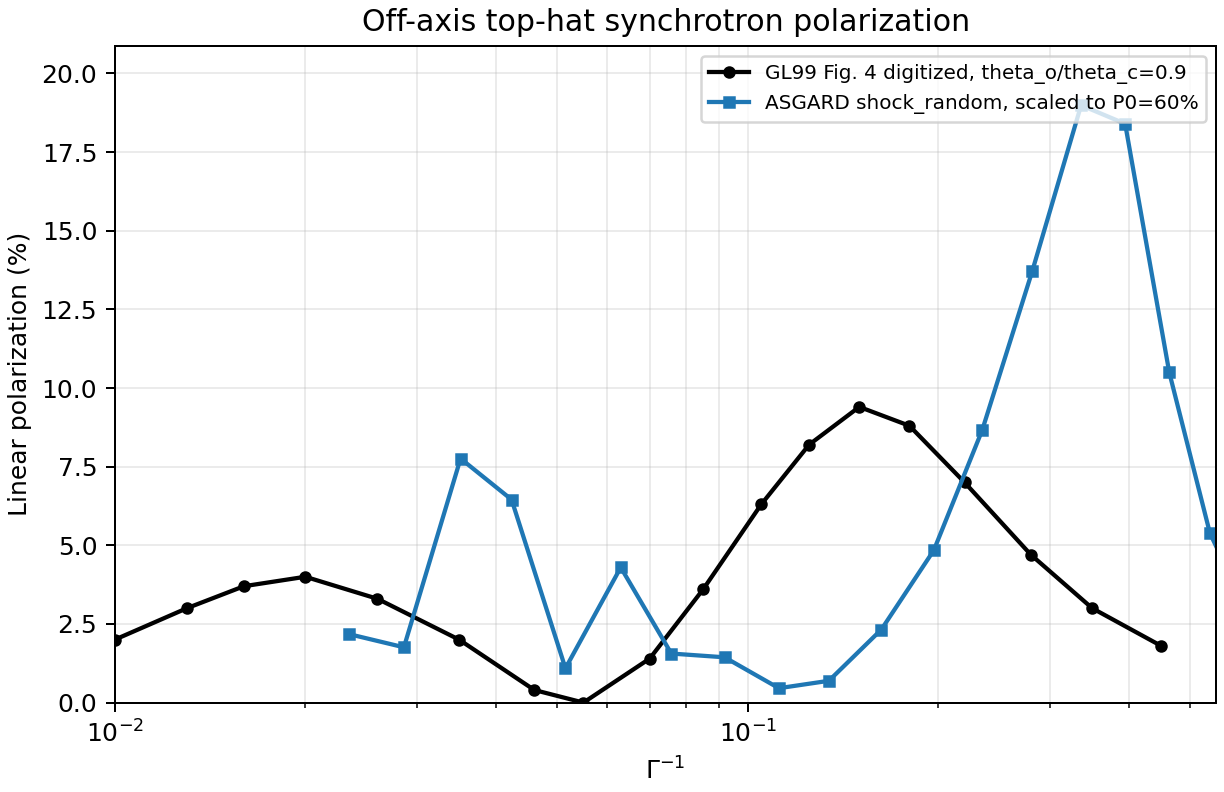
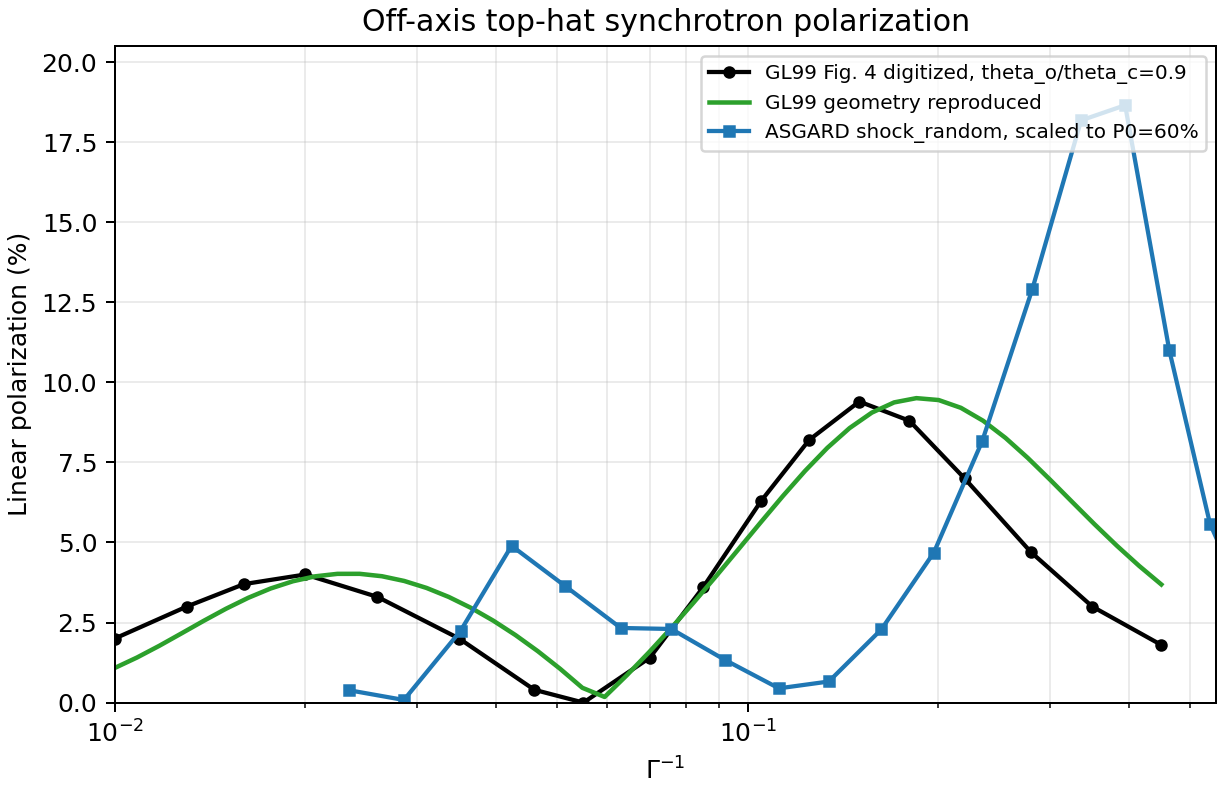
test: reproduce GL99 polarization geometry

diff --git a/tests/polarization_literature_overlay.py b/tests/polarization_literature_overlay.py
@@ -61,6 +61,7 @@ def _build_asgard_model() -> Model:
             num_gam_e=32,
             num_nu=40,
             num_r=40,
+            num_phi=48,
             num_tobs=40,
             patch_theta=8,
             patch_phi=48,
@@ -80,10 +81,74 @@ def _asgard_polarization_curve() -> tuple[np.ndarray, np.ndarray]:
     return 1.0 / gamma, scaled_percent
 
 
-def _write_overlay_csv(gl_x: np.ndarray, gl_p: np.ndarray, asgard_x: np.ndarray, asgard_p: np.ndarray) -> None:
+def _unit_direction(theta: float, phi: float) -> np.ndarray:
+    """球坐标方向向量，供 GL99 几何积分使用。"""
+    return np.array([np.sin(theta) * np.cos(phi), np.sin(theta) * np.sin(phi), np.cos(theta)], dtype=float)
+
+
+def _gl99_sky_basis(theta_obs: float) -> tuple[np.ndarray, np.ndarray, np.ndarray]:
+    """构造视线和天球基底，使 x 轴位于 jet-axis/observer 平面。"""
+    sightline = _unit_direction(theta_obs, 0.0)
+    sky_y = np.array([0.0, 1.0, 0.0], dtype=float)
+    sky_x = np.cross(sky_y, sightline)
+    sky_x = sky_x / np.linalg.norm(sky_x)
+    sky_y = np.cross(sightline, sky_x)
+    return sightline, sky_x, sky_y / np.linalg.norm(sky_y)
+
+
+def _gl99_geometry_curve() -> tuple[np.ndarray, np.ndarray]:
+    """按 GL99 的薄壳几何假设直接积分 top-hat 面元偏振。"""
+    theta_j = 0.1
+    theta_obs = 0.9 * theta_j
+    alpha = 0.6
+    sightline, sky_x, sky_y = _gl99_sky_basis(theta_obs)
+    theta_edges = np.linspace(0.0, theta_j, 121)
+    phi_edges = np.linspace(0.0, 2.0 * np.pi, 289)
+    gamma_inverse = np.logspace(np.log10(0.01), np.log10(0.45), 48)
+    polarization_percent = np.zeros_like(gamma_inverse)
+
+    for i_gamma, gamma_inv in enumerate(gamma_inverse):
+        gamma = 1.0 / gamma_inv
+        beta = np.sqrt(1.0 - gamma ** -2)
+        total_i = 0.0
+        total_q = 0.0
+        total_u = 0.0
+        for i_theta in range(theta_edges.size - 1):
+            theta = 0.5 * (theta_edges[i_theta] + theta_edges[i_theta + 1])
+            domega_theta = np.cos(theta_edges[i_theta]) - np.cos(theta_edges[i_theta + 1])
+            for i_phi in range(phi_edges.size - 1):
+                phi = 0.5 * (phi_edges[i_phi] + phi_edges[i_phi + 1])
+                patch_direction = _unit_direction(theta, phi)
+                mu = float(np.dot(patch_direction, sightline))
+                doppler = 1.0 / (gamma * (1.0 - beta * mu))
+                intensity_weight = doppler ** (3.0 + alpha) * domega_theta * (phi_edges[i_phi + 1] - phi_edges[i_phi])
+                e_vector = patch_direction - mu * sightline
+                e_x = float(np.dot(e_vector, sky_x))
+                e_y = float(np.dot(e_vector, sky_y))
+                norm = np.hypot(e_x, e_y)
+                e_x = e_x / norm
+                e_y = e_y / norm
+                mu_prime = (mu - beta) / (1.0 - beta * mu)
+                local_pi = (1.0 - mu_prime * mu_prime) / (1.0 + mu_prime * mu_prime)
+                total_i += intensity_weight
+                total_q += intensity_weight * local_pi * (e_x * e_x - e_y * e_y)
+                total_u += intensity_weight * local_pi * (2.0 * e_x * e_y)
+        polarization_percent[i_gamma] = 60.0 * np.hypot(total_q, total_u) / total_i
+    return gamma_inverse, polarization_percent
+
+
+def _write_overlay_csv(
+    gl_x: np.ndarray,
+    gl_p: np.ndarray,
+    geom_x: np.ndarray,
+    geom_p: np.ndarray,
+    asgard_x: np.ndarray,
+    asgard_p: np.ndarray,
+) -> None:
     """保存文献数字化点和 ASGARD 曲线，便于后续复查。"""
     rows = ["series,gamma_inverse,polarization_percent"]
     rows.extend(f"GL99_theta_ratio_0.9,{x:.8e},{p:.8e}" for x, p in zip(gl_x, gl_p, strict=True))
+    rows.extend(f"GL99_geometry_reproduction,{x:.8e},{p:.8e}" for x, p in zip(geom_x, geom_p, strict=True))
     rows.extend(f"ASGARD_theta_ratio_0.9,{x:.8e},{p:.8e}" for x, p in zip(asgard_x, asgard_p, strict=True))
     OUTPUT_CSV.write_text("\n".join(rows) + "\n", encoding="utf-8")
 
@@ -92,14 +157,16 @@ def main() -> None:
     """生成 GL99 数字化曲线与 ASGARD 当前输出的叠图。"""
     gl_x = GL99_THETA_RATIO_09[:, 0]
     gl_p = GL99_THETA_RATIO_09[:, 1]
+    geom_x, geom_p = _gl99_geometry_curve()
     asgard_x, asgard_p = _asgard_polarization_curve()
     order = np.argsort(asgard_x)
     asgard_x = asgard_x[order]
     asgard_p = asgard_p[order]
-    _write_overlay_csv(gl_x, gl_p, asgard_x, asgard_p)
+    _write_overlay_csv(gl_x, gl_p, geom_x, geom_p, asgard_x, asgard_p)
 
     fig, ax = plt.subplots(figsize=(6.8, 4.4), constrained_layout=True)
     ax.plot(gl_x, gl_p, "o-", color="black", lw=1.7, ms=4.0, label="GL99 Fig. 4 digitized, theta_o/theta_c=0.9")
+    ax.plot(geom_x, geom_p, "-", color="#2ca02c", lw=1.8, label="GL99 geometry reproduced")
     ax.plot(asgard_x, asgard_p, "s-", color="#1f77b4", lw=1.7, ms=3.8, label="ASGARD shock_random, scaled to P0=60%")
     ax.set_xscale("log")
     ax.set_xlim(0.01, 0.55)

diff --git a/添加偏振模块.md b/添加偏振模块.md
@@ -16,7 +16,9 @@
 - [x] 完整物理的 `j_perp` / `j_parallel` Bessel emissivity 核积分已完成；已替换基于局域谱斜率的 `Pi_nu` 近似，并继续保证 `j_perp + j_parallel` 回归原同步总强度。
 - [x] 新增 `tests/polarization_baseline_bench.py`，覆盖 on-axis 抵消、off-axis 两种磁场几何连续性、FS/RS/hadronic 组件路径基准。
 - [x] 已数字化 Ghisellini & Lazzati 1999 Fig. 4 的 `theta_o/theta_c=0.9` 偏振曲线，并与 ASGARD 当前结果生成同图对照。
+- [x] 已新增 GL99 薄壳几何直接积分复现曲线；确认局域 `shock_random` 偏振公式能复现文献双峰量级，当前 ASGARD full 曲线残差来自 EATS/Doppler/Stokes 角元耦合。
 - [x] 后续性能优化已评估：当前耗时主要来自每个 patch 的状态求解和 hadronic/RS 组件计算，单独下沉 Stokes 累加不能解决主要瓶颈，暂不实施。
+- [ ] 将 `shock_random` 的 `cos(2PA)`、`sin(2PA)` 与局域偏振率下沉到和 `DMu`、Doppler、EATS 相同的角元积分中，消除 patch 中心 PA 近似。
 
 ## Key Changes
 - API 层新增 `PolarizationResult` dataclass，字段固定为：
